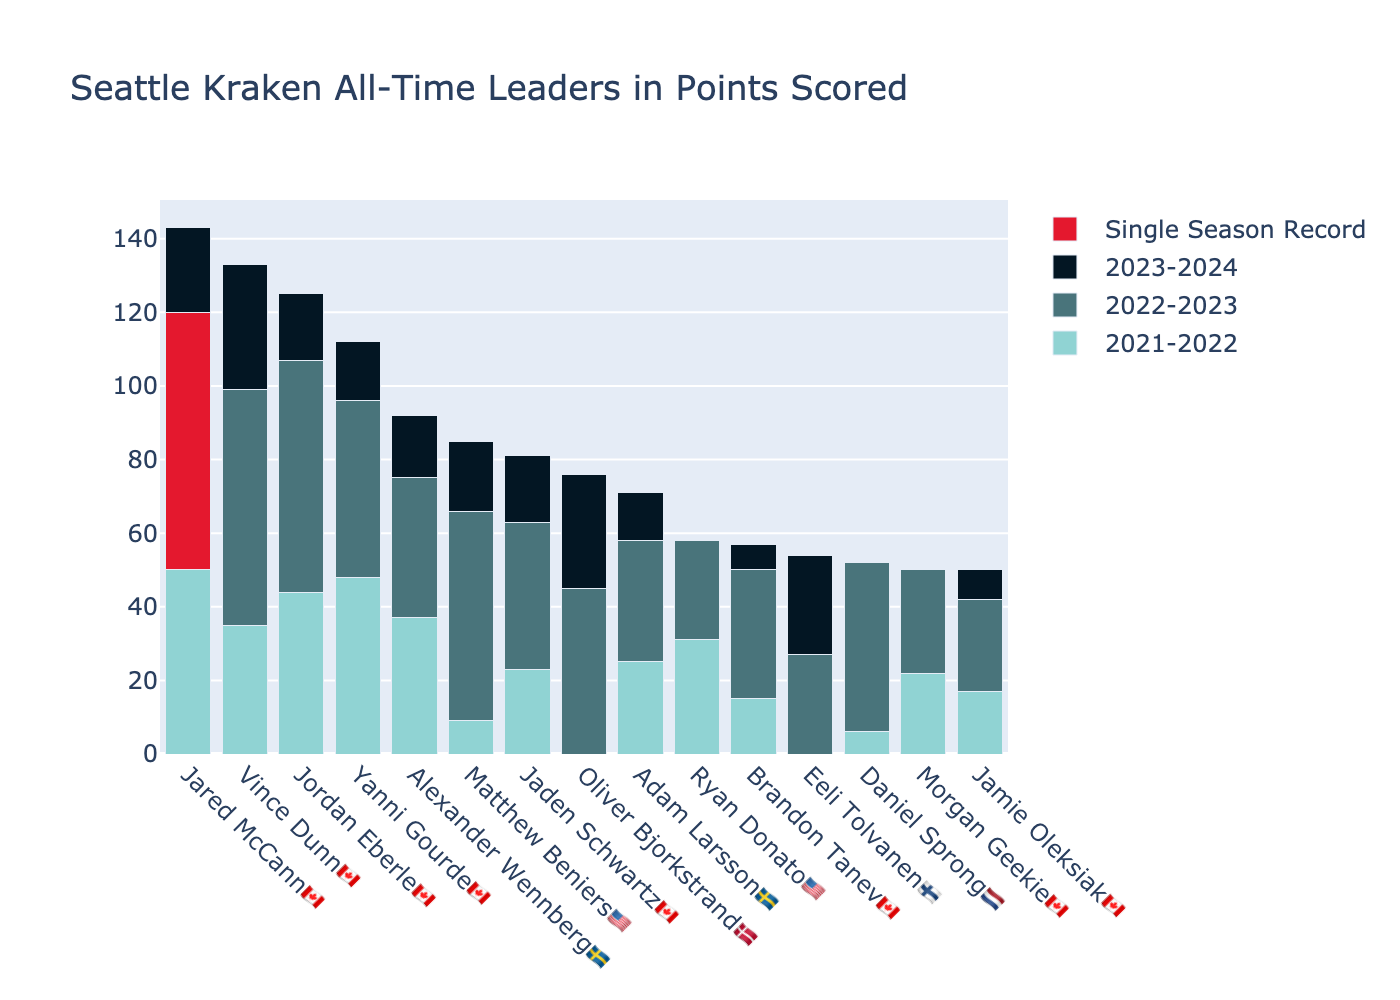
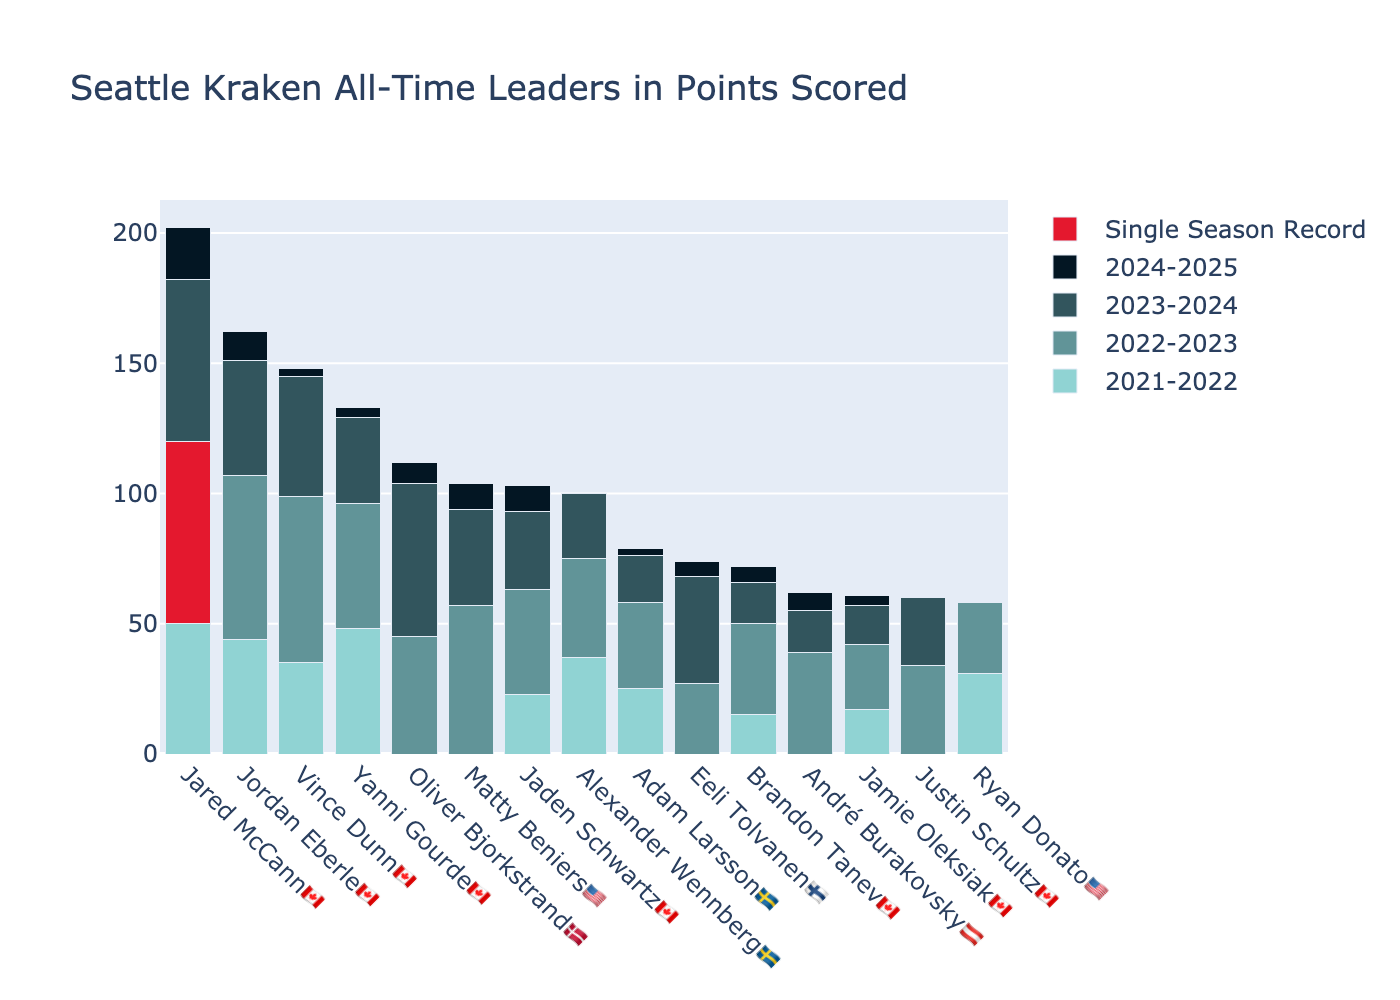
Early 2024-2025 season update.
Slight changes to hockey-reference stats.
Total_row is now an actual row.

diff --git a/main.py b/main.py
@@ -19,6 +19,34 @@ def get_color_spectrum(n, color1, color2, number_bands=15):
     #print(colorname)
     return colorname
 
+def convert_to_seconds(time_str):
+    """Converts a string in the format 'min:sec' to seconds (float)."""
+    minutes, seconds = time_str.split(':')
+    return int(minutes) * 60 + int(seconds)
+def convert_to_minutes(time_value):
+    """Converts a string in the format 'min:sec' to seconds (float)."""
+    if isinstance(time_value,str):
+        if ':' in time_value:
+            minutes, seconds = time_value.split(':')
+        else:
+            minutes = time_value
+            seconds = 0
+        return float(minutes) + float(seconds) / 60.
+    elif isinstance(time_value,int):
+        return float(time_value)
+
+def sum_numeric_rows(df):
+    # Create a DataFrame with only numeric columns
+    numeric_df = df.select_dtypes(include='number')
+
+    # Calculate the sum of each row in the numeric DataFrame
+    row_sums = numeric_df.sum(axis=0)
+
+    # Add the row sums to the original DataFrame
+    #`df['row_sum'] = row_sums
+
+    #return row_sums.to_frame().T
+    return row_sums.to_frame().T
 
 # Load citizenship data
 input_fd = open("flags.csv", encoding="utf-8")
@@ -33,10 +61,11 @@ for f in sorted(glob.glob("season*.csv")):
     seasons.append(Path(f).stem.split('season-')[-1])
     print(f"Loading {f}...")
     #data.append(pd.read_csv(f, header=0, skiprows=1, index_col=0, usecols=lambda x: x not in ['Rk']))
-    data.append(pd.read_csv(f, header=0, skiprows=1, usecols=lambda x: x not in ['Rk']))
+    data.append(pd.read_csv(f, header=0, skiprows=1, usecols=lambda x: x not in ['Rk','ATOI']))
     #print(data[-1]["GWG"])
 stacked_df = pd.concat(df.assign(Season = season) for df, season in zip(data, seasons)).reset_index(drop=True)
 
+stacked_df['TOI'] = stacked_df["TOI"].apply(convert_to_minutes)
 # Adding additional stats
 stacked_df["PPP"] = stacked_df["PPG"] + stacked_df["PPA"]
 
@@ -54,27 +83,28 @@ for p in list_players:
         total_row["Age"] = 1
         stacked_df = pd.concat([stacked_df, total_row]).reset_index(drop=True)
     else:
-        total_row = stacked_df.loc[stacked_df["Player"] == p].sum()
-        total_row.loc["Player"] = p
-        total_row.loc["Season"] = "Total"
-        total_row.loc["Age"] = stacked_df.loc[stacked_df.Player == p].shape[0]
+#        total_row = stacked_df.loc[stacked_df["Player"] == p].sum(numeric_only=True)
+        total_row = sum_numeric_rows(stacked_df.loc[stacked_df["Player"] == p])
+        total_row["Player"] = p
+        total_row["Season"] = "Total"
+        total_row["Age"] = stacked_df.loc[stacked_df.Player == p].iloc[-1]["Age"]
         try:
-            total_row.loc["Flag"] = flags.loc[flags.Player == p].iloc[0]["Flag"]
+            total_row["Flag"] = flags.loc[flags.Player == p].iloc[0]["Flag"]
         except IndexError:
             print("Missing flag",p)
-            total_row.loc["Flag"] = None
-        total_row.loc["url"] = stacked_df.loc[stacked_df.Player == p].iloc[0]["url"]
-        total_row.loc["Pos"] = stacked_df.loc[stacked_df.Player == p].iloc[0]["Pos"]
-        if total_row.loc["G"] == 0:
-            total_row.loc["S%"] = 0.
+            total_row["Flag"] = None
+        total_row["url"] = stacked_df.loc[stacked_df.Player == p].iloc[0]["url"]
+        total_row["Pos"] = stacked_df.loc[stacked_df.Player == p].iloc[0]["Pos"]
+        if total_row.loc[0, "G"] == 0:
+            total_row["S%"] = 0.
         else:
-            total_row.loc["S%"] = total_row.loc["G"] / total_row.loc["S"] * 100
-        total_row.loc["ATOI"] = total_row.loc["TOI"] / total_row.loc["GP"]
-        if total_row.loc["FOW"] == 0:
-            total_row.loc["FO%"] = 0.
+            total_row["S%"] = total_row["G"] / total_row["SOG"] * 100
+        total_row["ATOI"] = total_row["TOI"] / total_row["GP"]
+        if total_row.loc[0, "FOW"] == 0:
+            total_row["FO%"] = 0.
         else:
-            total_row.loc["FO%"] = total_row.loc["FOW"] / (total_row.loc["FOW"] + total_row.loc["FOL"]) * 100
-        stacked_df = pd.concat([stacked_df, total_row.to_frame().T], sort=True).reset_index(drop=True)
+            total_row["FO%"] = total_row["FOW"] / (total_row["FOW"] + total_row["FOL"]) * 100
+        stacked_df = pd.concat([stacked_df, total_row], sort=True).reset_index(drop=True)
 
 stacked_df["PlayerAndFlag"] = stacked_df["Player"] + stacked_df["Flag"]
 
@@ -101,21 +131,21 @@ for p in list_goalies:
         total_row["Age"] = 1
         stacked_df = pd.concat([stacked_dfg, total_row]).reset_index(drop=True)
     else:
-        total_row = stacked_dfg.loc[stacked_dfg["Player"] == p].sum()
-        total_row.loc["Player"] = p
-        total_row.loc["Season"] = "Total"
-        total_row.loc["Age"] = stacked_dfg.loc[stacked_dfg.Player == p].shape[0]
+        total_row = sum_numeric_rows(stacked_dfg.loc[stacked_dfg["Player"] == p])
+        total_row["Player"] = p
+        total_row["Season"] = "Total"
+        total_row["Age"] = stacked_dfg.loc[stacked_dfg.Player == p].shape[0]
         try:
-            total_row.loc["Flag"] = flags.loc[flags.Player == p].iloc[0]["Flag"]
+            total_row["Flag"] = flags.loc[flags.Player == p].iloc[0]["Flag"]
         except IndexError:
             print("Missing flag",p)
-            total_row.loc["Flag"] = None
-        total_row.loc["url"] = stacked_dfg.loc[stacked_dfg.Player == p].iloc[0]["url"]
-        if total_row.loc["GA"] == 0:
-            total_row.loc["SV%"] = 100.
+            total_row["Flag"] = None
+        total_row["url"] = stacked_dfg.loc[stacked_dfg.Player == p].iloc[0]["url"]
+        if total_row.loc[0, "GA"] == 0:
+            total_row["SV%"] = 100.
         else:
-            total_row.loc["SV%"] = total_row.loc["SV"] / total_row.loc["SA"] * 100
-        stacked_dfg = pd.concat([stacked_dfg, total_row.to_frame().T], sort=True).reset_index(drop=True)
+            total_row["SV%"] = total_row["SV"] / total_row["Shots"] * 100
+        stacked_dfg = pd.concat([stacked_dfg, total_row], sort=True).reset_index(drop=True)
 
 stacked_dfg["PlayerAndFlag"] = stacked_dfg["Player"] + stacked_dfg["Flag"]
 
@@ -226,14 +256,14 @@ statName = {"GP": "Games Played",
             "PPA": "Powerplay Assists",
             "PPP": "Powerplay Points",
             "SHA": "Short-handed Assists",
-            "S": "Shots On Goal",
+            "SOG": "Shots On Goal",
             "BLK": "Blocked Shots",
             "HIT": "Hits",
             "P_M": "Plus/Minus",
             }
 single_season_records = {}
 for stat in ["GP", "G", "A", "PTS", "PIM", "EVG", "PPG", "SHG", "GWG", "EVA", "PPA",
-             "PPP", "SHA", "S", "BLK", "HIT", "P_M"]:
+             "PPP", "SHA", "SOG", "BLK", "HIT", "P_M"]:
     single_season_records[stat] = stacked_df[stacked_df.Season != 'Total'][stat].max()
     plotAlltimeLeaders(stacked_df, stat, statName[stat], 15, single_season_records[stat], team)
 
@@ -243,7 +273,7 @@ statName = {"GP": "Games Played",
             "W": "Wins",
             "L": "Losses",
             "GA": "Goals Against",
-            "SA": "Shots Against",
+            "Shots": "Shots Against",
             "SV": "Saves",
             "SO": "Shutouts",
             "QS": "Quality Starts",
